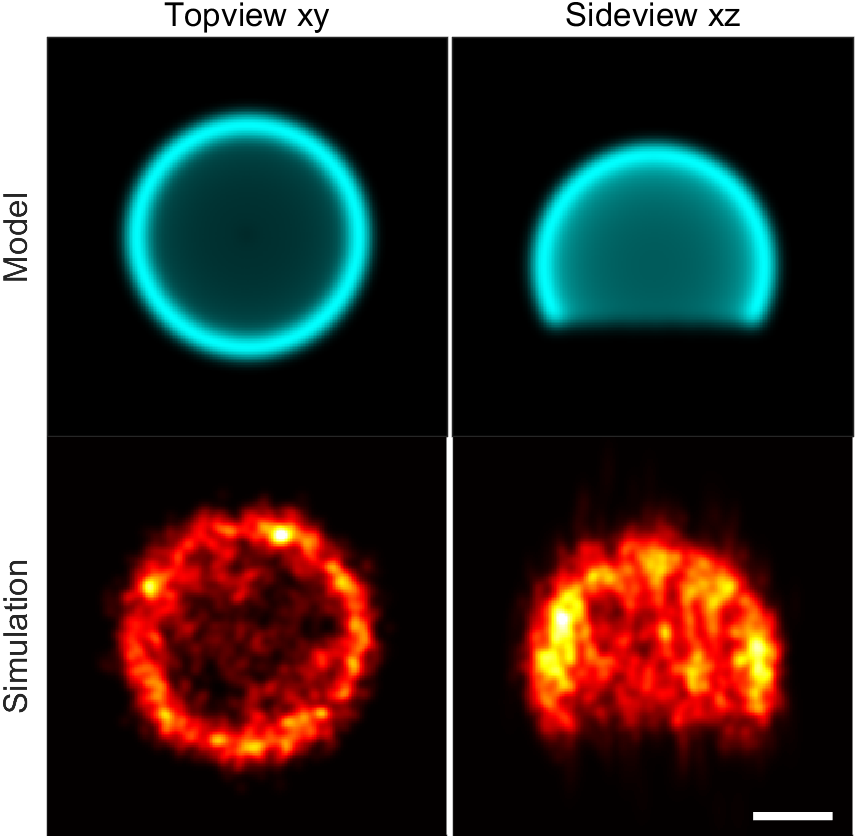
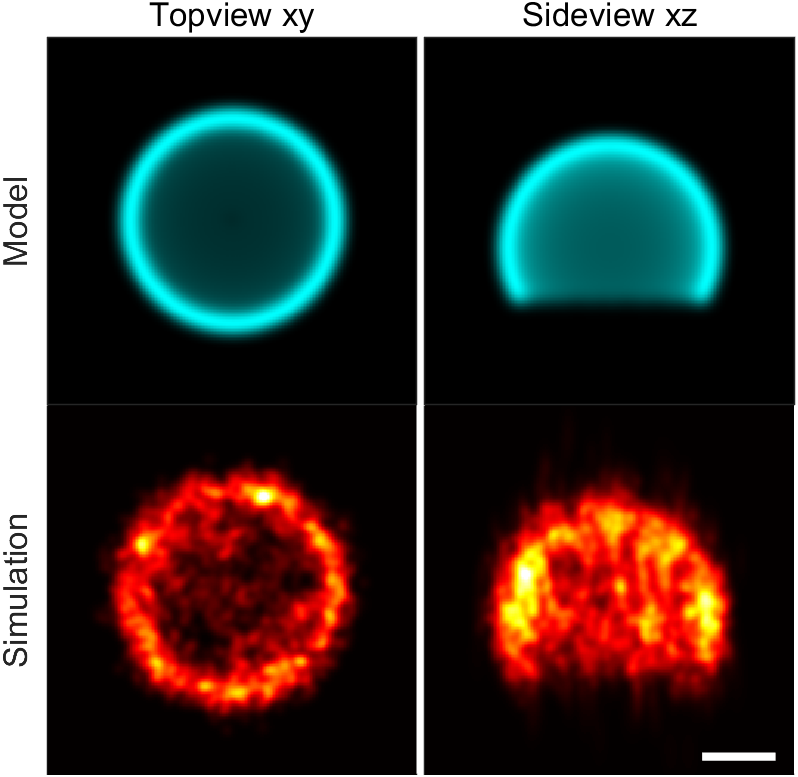
LocMoFit_doc: image updates

diff --git a/LocMoFit/img_model/generateImgs.m b/LocMoFit/img_model/generateImgs.m
@@ -153,8 +153,10 @@ for k = 1:length(model_imgDefined)
             axis(allAx, 'image')
             axis(allAx, 'on')
             pan.margin = 0;
-            pan.margintop = 7;
-            pan.marginleft = 7;            
+            pan.units = 'pt';
+            pan.margintop = 17;
+            pan.marginleft = 17;
+    
             pan.fontsize = 12;
             pan.de.margin = 0;
             ylabel(pan(1,1).axis,'Model')
@@ -167,7 +169,8 @@ for k = 1:length(model_imgDefined)
     hSb.LineWidth = 3;
 
     %% Figure size
-    fig_pan.Position(3:4) = [7+6+201.5*numOfView 7+201.5*numOfView];
+    eachPan = 180;
+    fig_pan.Position(3:4) = [17+8+eachPan*numOfView 17+eachPan*numOfView];
 
     %% Save
 %     dateCreated = ['_c' char(datetime('now','TimeZone','local','Format','yyMMdd'))];
